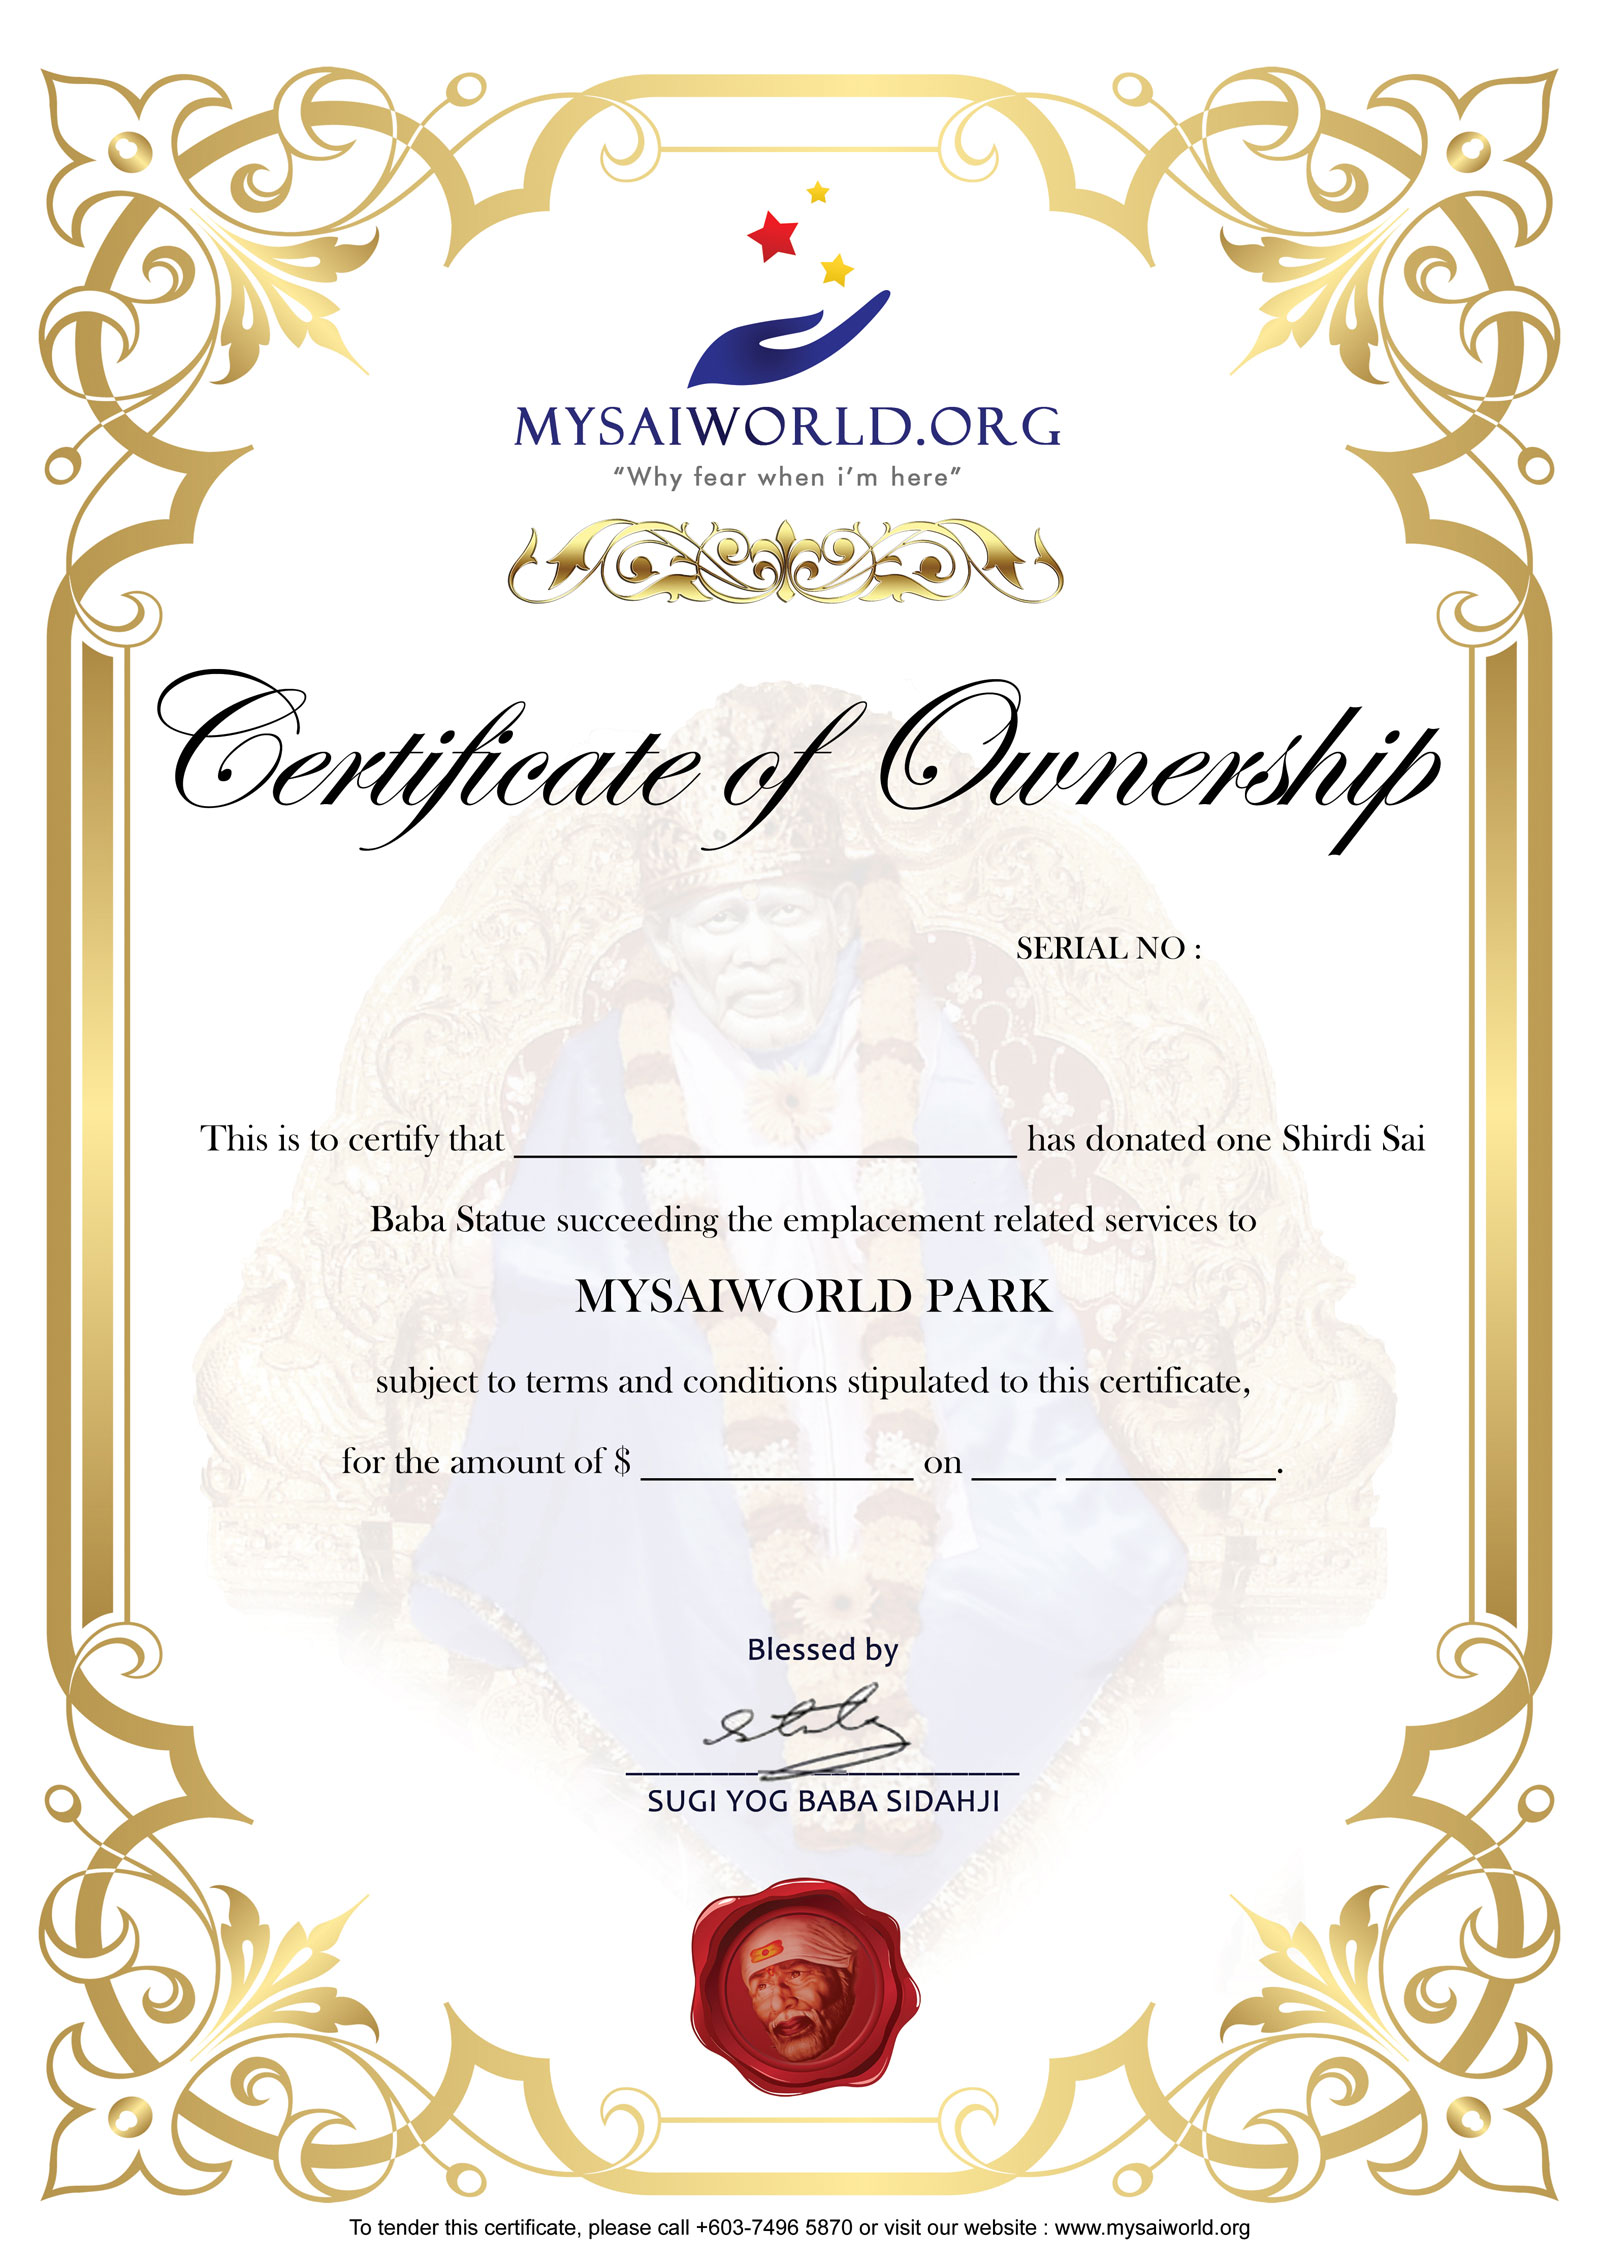
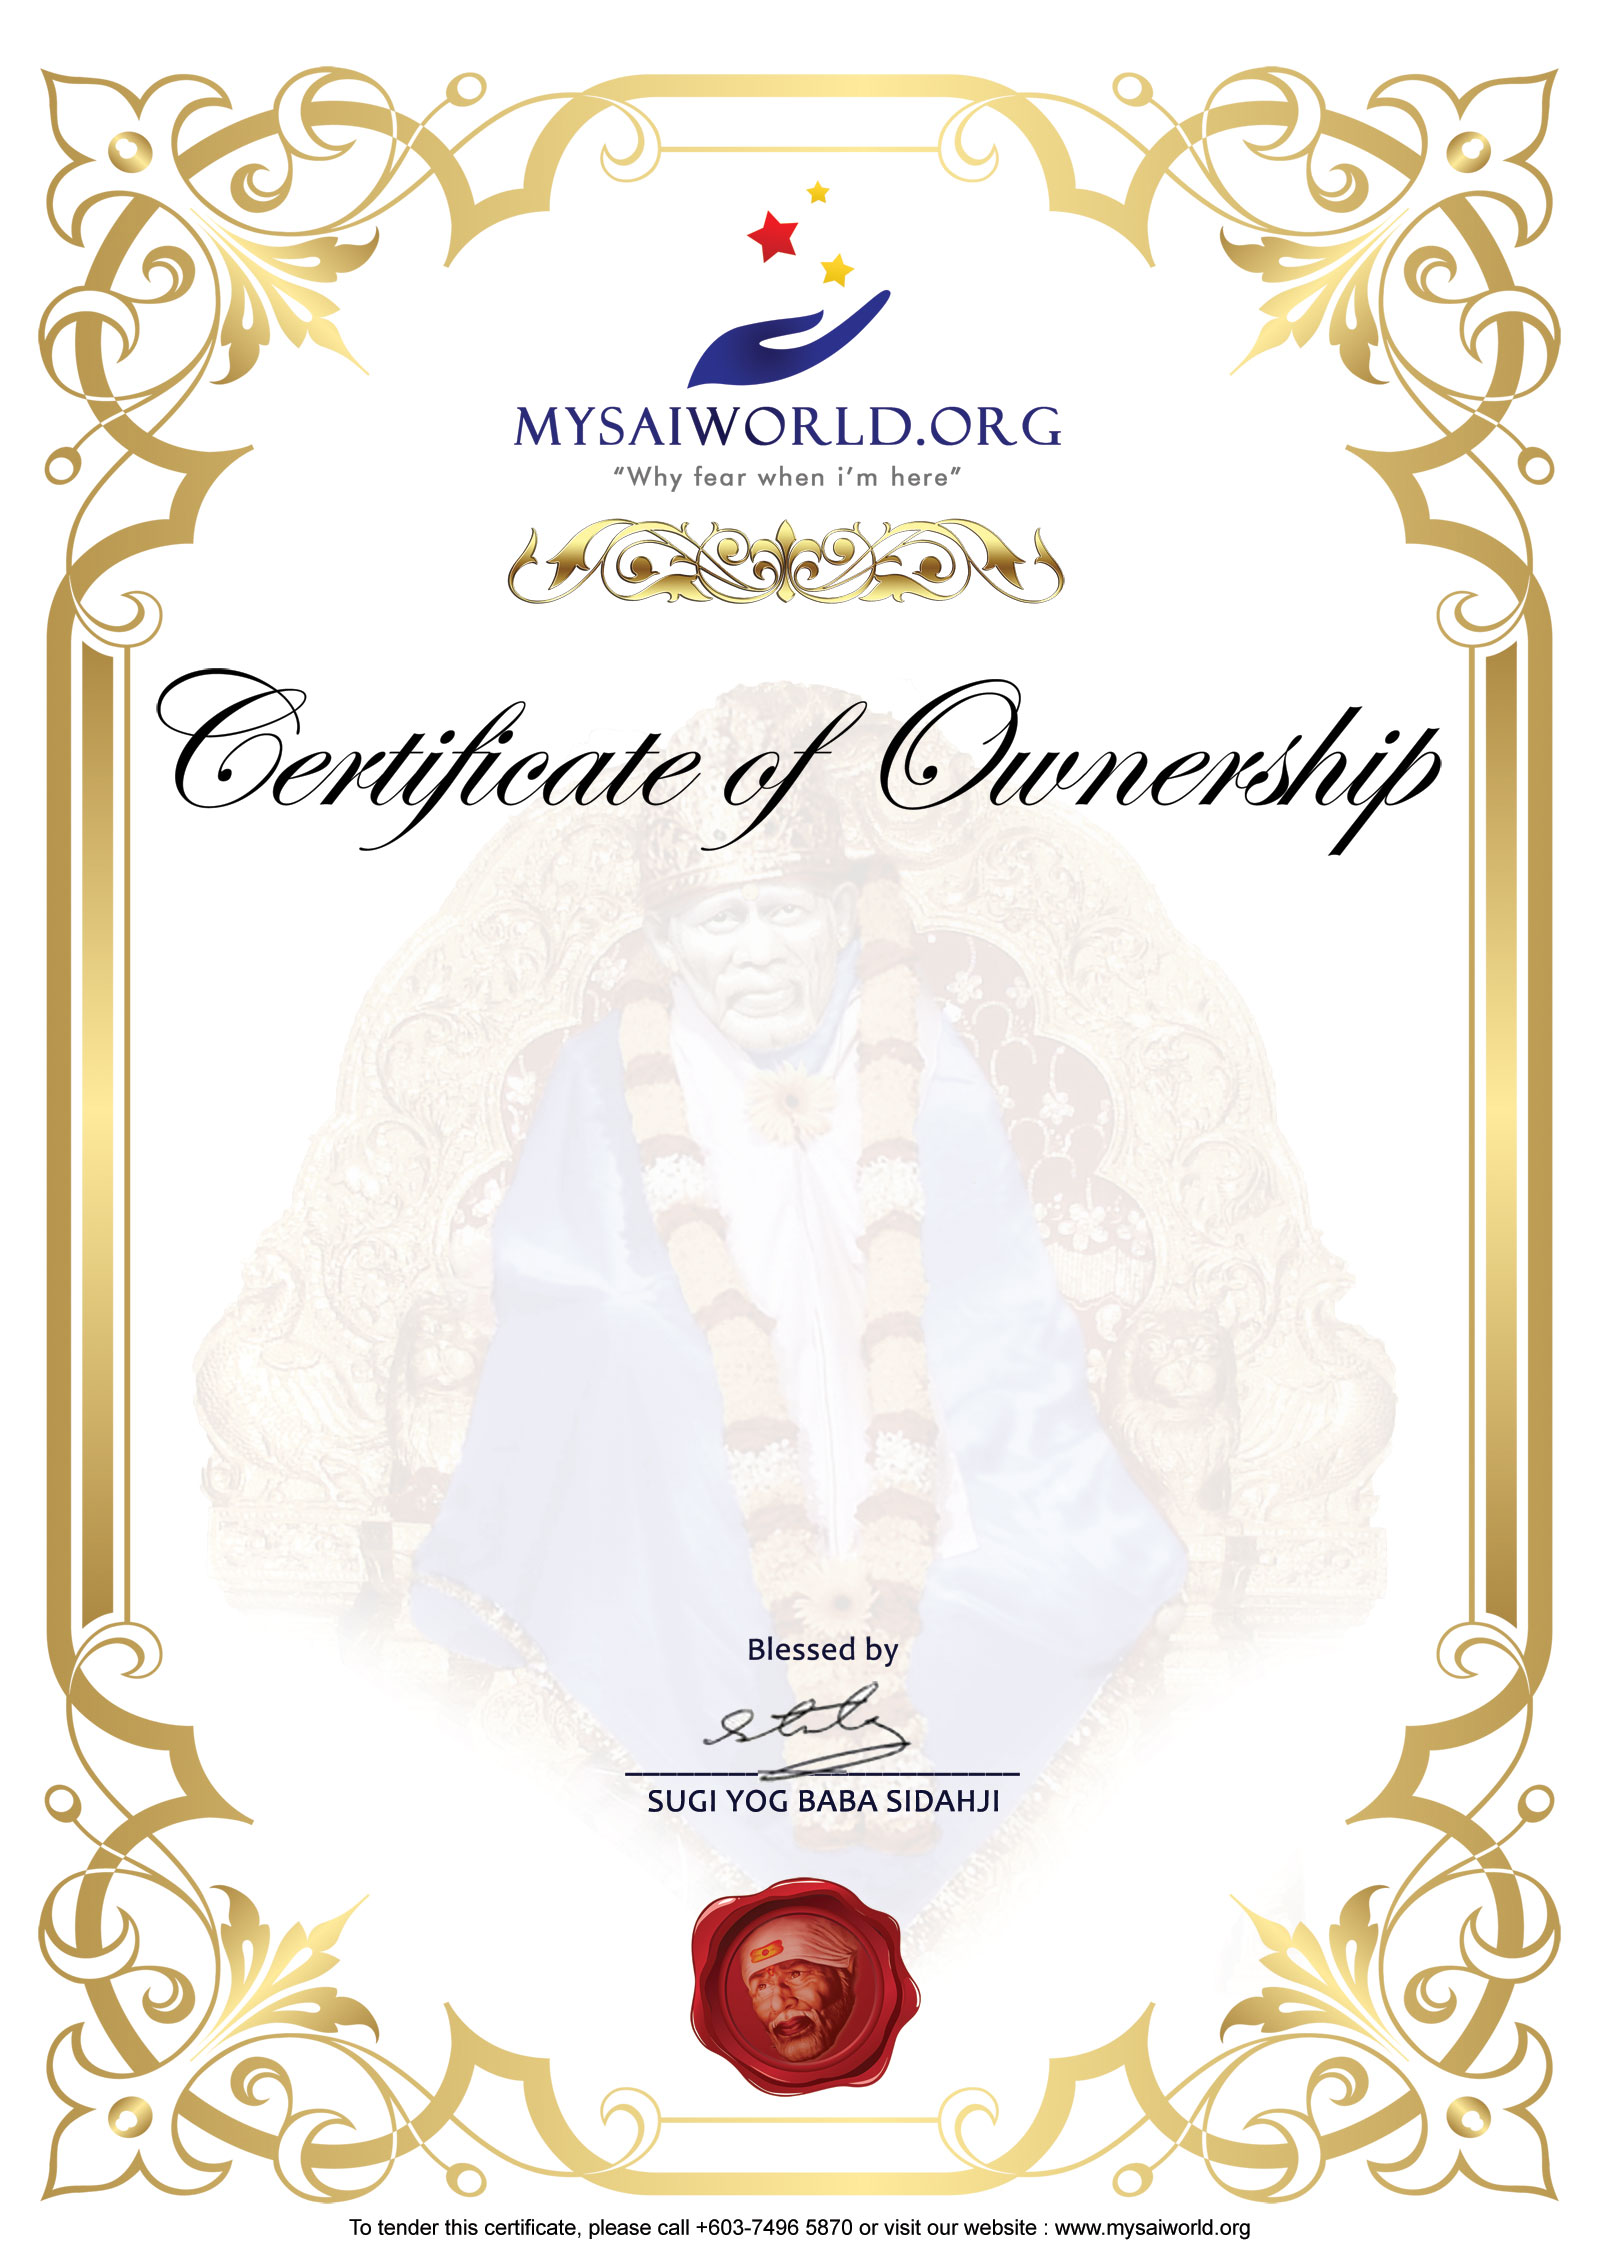
Certificate downalod page

diff --git a/assets/css/style.css b/assets/css/style.css
@@ -4794,3 +4794,22 @@ input[type=radio].with-font:focus ~ label
 {                
     color: green;
 }
+
+.cert-serial
+{
+position: absolute; top: 620px; left: 660px; font-size: 20px; text-align: center; display: block; font-weight: bold; width: 300px; font-family:serif; color: #333;
+}
+.cert-serial>strong
+{
+color: red;
+}
+
+.cert-content{
+	position: absolute; top: 700px; font-size:24px; text-align: center; display: block;  font-weight: bold; width: 87%; padding:0px 100px; color: #333; font-family: serif;	line-height:60px;
+	
+}
+.cert-content>strong
+{
+	color:red;
+	text-decoration:underline;
+}

diff --git a/assets/modul-js/profile/editprofile.js b/assets/modul-js/profile/editprofile.js
@@ -113,6 +113,16 @@ var Script = function () {
 }();
 
 
+function printDiv() 
+{
+  var divToPrint=document.getElementById('print-cert');
+  var newWin=window.open('','Print-Window');
+  newWin.document.open();
+  newWin.document.write('<html><head><title>'+newWin.document.title+'</title></head><body onload="window.print()">'+divToPrint.innerHTML+'</body></html>');
+  newWin.document.close();
+  setTimeout(function(){newWin.close();},10);
+}
+
 function paymentmsg(){
  $('#paymentmsg').show();
 }

diff --git a/assets/modul-js/profile/certificate.js b/assets/modul-js/profile/certificate.js
@@ -1,2 +1,5 @@
 var Script = function (){
+	alert "Hi"; 
+	
+
 }

diff --git a/modul/profile/certificate.tpl.php b/modul/profile/certificate.tpl.php
@@ -5,34 +5,51 @@ $userId = getuserId();
                 <div class="col-lg-12">
                     <section class="panel">
                         <header class="panel-heading">
-                            Download Certificate
+                            <a href="" class="btn btn-success"  onclick='printDiv();'>Print Certificate</a>
                         </header>
-                        <div class="panel-body" height="600px">
-						<div><img src=".\..\assets\images\certificate.jpg" width="980px"></div>
+                        <div class="panel-body" id="print-view">
+						<div class="alert alert-danger" style="display:none;">Please pay full amount to download or print the certificate</div>
+						<div><img src=".\..\assets\images\certificate.jpg" width="1000px"></div>
 						<!-- Serial No -->
-						<div style="position: absolute; top: 638px; left: 660px; font-size: 20px; text-align: center; display: block; font-weight: bold; width: 300px; font-family: serif; color: #f00;">
-						<strong><?php echo sprintf('%08d', $userId[0]['uid']); ?></strong>
+						<div class="cert-serial">
+						Serial No : <strong><?php echo sprintf('%08d', $userId[0]['uid']); ?></strong>
 						</div>
 						
 						<!-- Full name -->
-						<div style=" position: absolute; top: 750px; left: 350px; font-size:20px; text-align: center; display: block; font-weight: bold; width: 300px;   HEIGHT: 30PX;     color: #333;
-    font-family: serif;">
-						<strong><?php echo $userId[0]['first_name'] . " " . $userId[0]['last_name']; ?></strong>
-						</div>
-						
-						<!-- Donation Amount -->
-						<div style="position: absolute; top: 950px; left: 420px; font-size: 28px; text-align: center; display: block; font-weight: bold; width: 150px; height: 30PX; font-family: serif; color: #000;">
-						<strong><?php echo $userId["product"][0]["value"];?></strong>
-						</div>
-						
-						<!-- Joining Date -->
-						<div style="position: absolute; top: 950px; left: 650px; font-size: 20px; text-align: center; display: block; font-weight: bold;  height: 30PX; font-family: serif; color: #000;">
-						<strong><?php 
+						<div class="cert-content">
+	This is to certify that <strong>&nbsp;<?php echo $userId[0]['first_name'] . " " . $userId[0]['last_name']; ?> &nbsp;</strong> has donated one Shirdi Sai
+	Baba Statue succeeding the emplacement related services to </br>
+MYSAIWORLD PARK </br>
+subject to terms and conditions stipulated to this certificate,  </br>
+for the amount of $ <strong>&nbsp;<?php echo $userId["product"][0]["value"];?> &nbsp;</strong> on <strong>&nbsp;<?php 
 						$yrdata= strtotime($userId["user"][0]["register_date"]);
 						echo date('d M Y', $yrdata);
-						?></strong>
+						?>&nbsp;</strong>.
 						</div>
                         </div>
+						
+						<div style="display:none;">
+						
+						<div  id="print-cert" style="border:0px; display:none;">
+						<div><img src=".\..\assets\images\certificate.jpg" width="1000px"></div>
+						<!-- Serial No -->
+						<div style="position: absolute; top: 600px; left: 660px; font-size: 20px; text-align: center; display: block; font-weight: bold; width: 300px; font-family:serif; color: #333;">
+						Serial No : <strong><?php echo sprintf('%08d', $userId[0]['uid']); ?></strong>
+						</div>
+						
+						<!-- Full name -->
+						<div style="position: absolute; top: 650px; font-size:24px; text-align: center; display: block;  font-weight: bold; width:80%; padding:0px 150px; color: #333; font-family: serif;	line-height:60px;">
+	This is to certify that <strong>&nbsp;<?php echo $userId[0]['first_name'] . " " . $userId[0]['last_name']; ?> &nbsp;</strong> has donated one Shirdi Sai
+	Baba Statue succeeding the emplacement related services to </br>
+MYSAIWORLD PARK </br>
+subject to terms and conditions stipulated to this certificate,  </br>
+for the amount of $ <strong>&nbsp;<?php echo $userId["product"][0]["value"];?> &nbsp;</strong> on <strong>&nbsp;<?php 
+						$yrdata= strtotime($userId["user"][0]["register_date"]);
+						echo date('d M Y', $yrdata);
+						?>&nbsp;</strong>.
+						</div>
+                        </div>
+						</div>
                     </section>
                 </div>
             </div>

diff --git a/modul/profile/init.php b/modul/profile/init.php
@@ -165,8 +165,8 @@ function the_profile() {
     });
     $app->get('/profile/certificate', function() {
 		global $hooks;
-        //$hooks->add_action('global_css','myprofile_css');
-        $hooks->add_action('global_js', 'certificate_js');
+        $hooks->add_action('global_css','myprofile_css');
+        $hooks->add_action('global_js', 'editprofile_js');
         $hooks->add_action('the_title', "certificate_title");
         the_head();
         include 'certificate.tpl.php';
